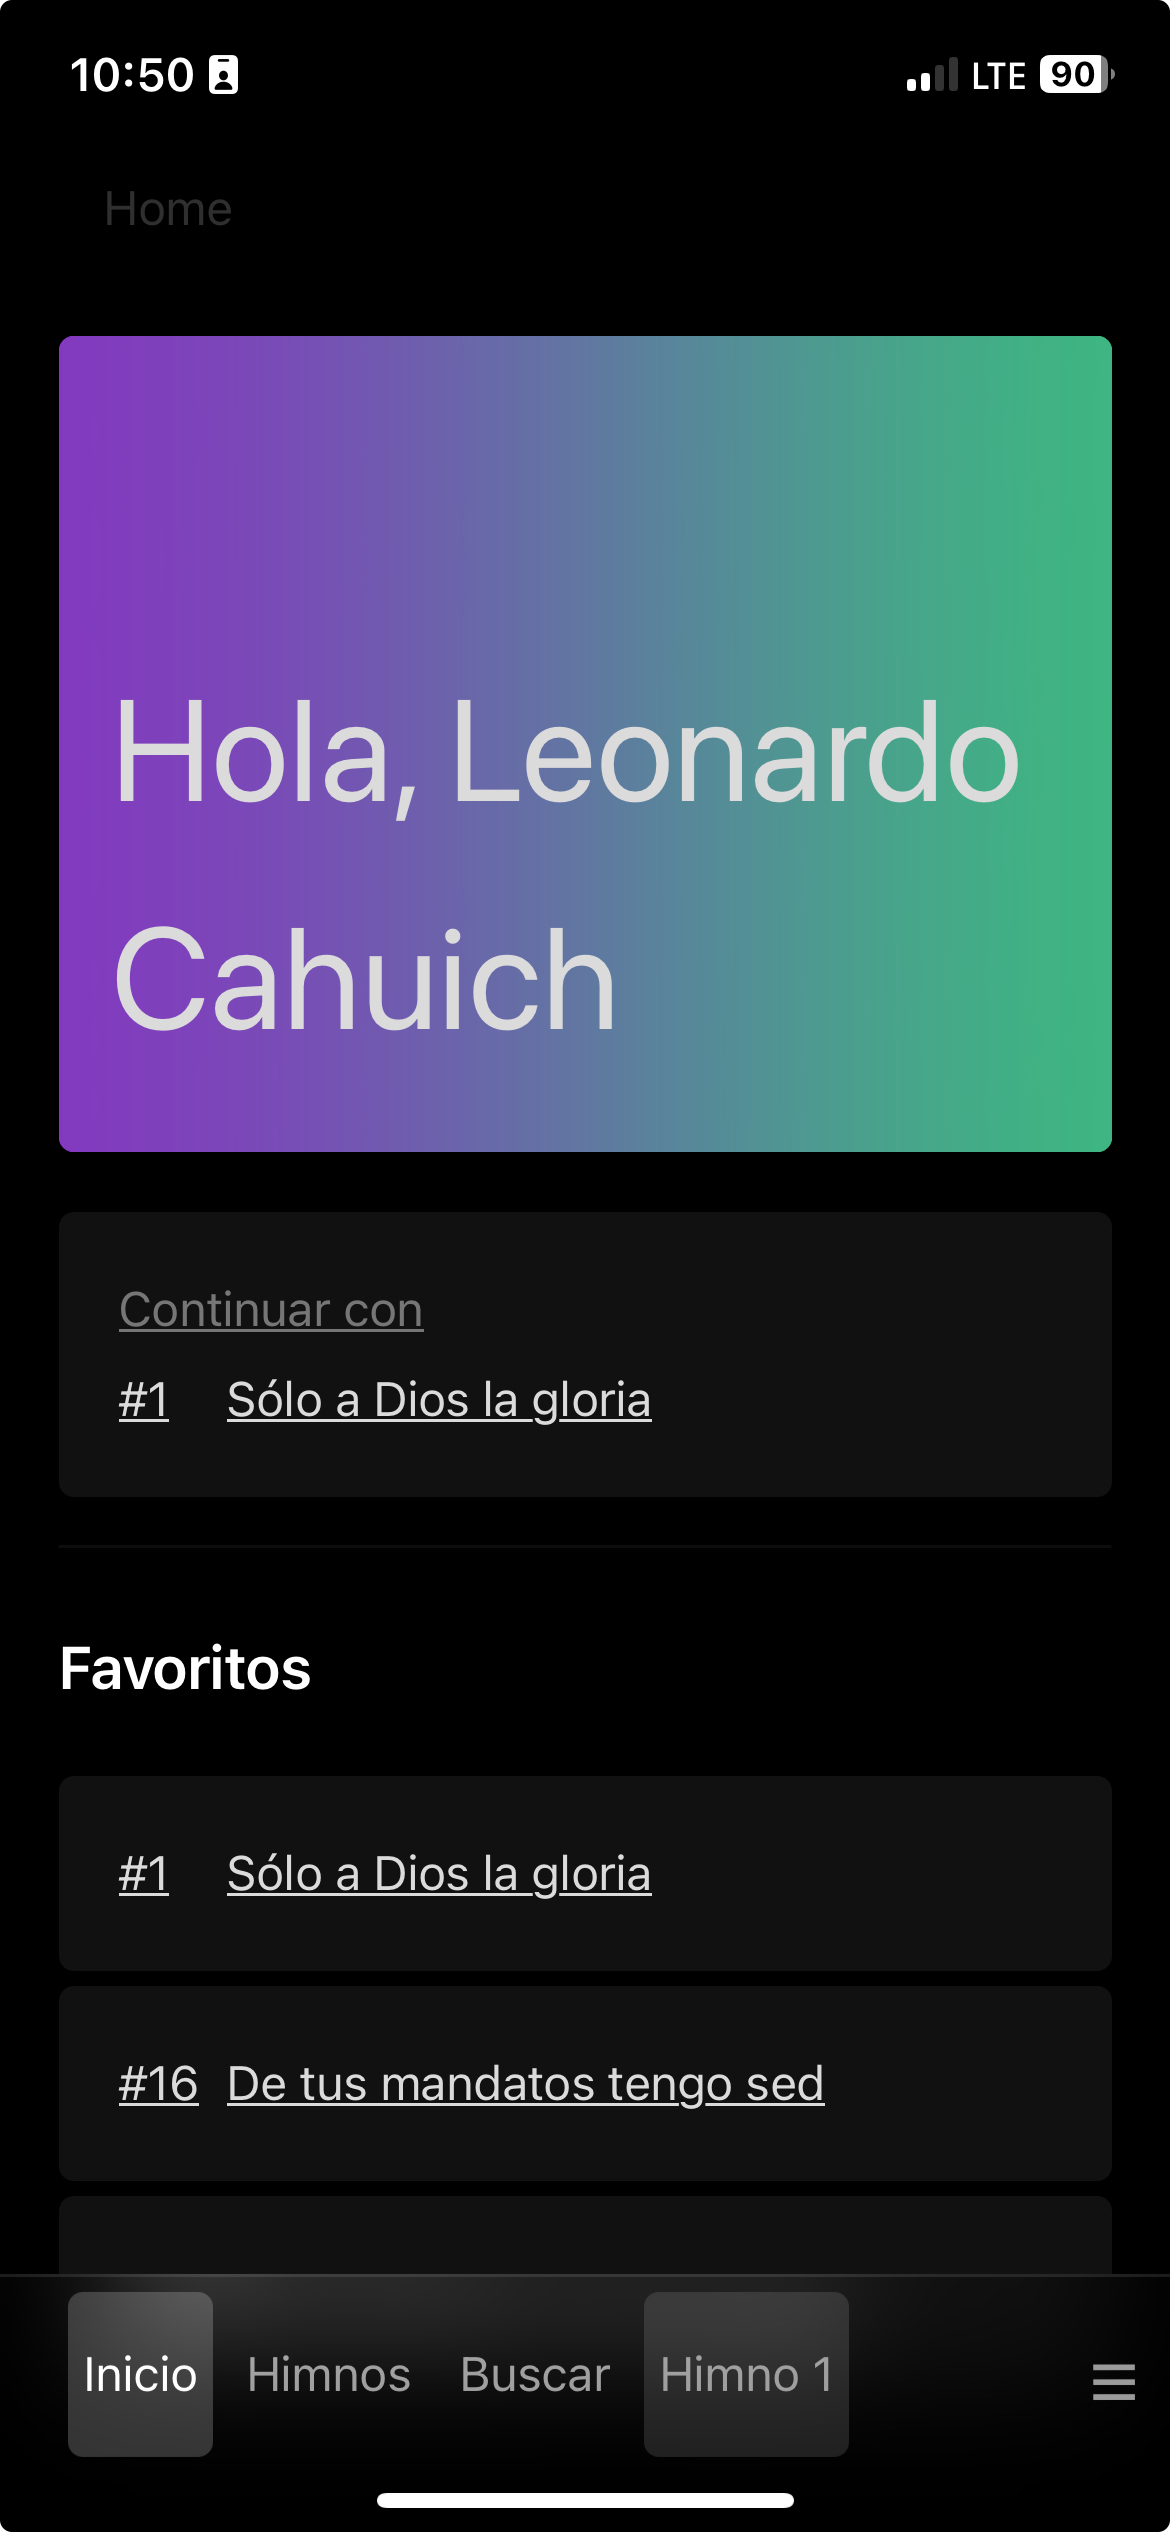
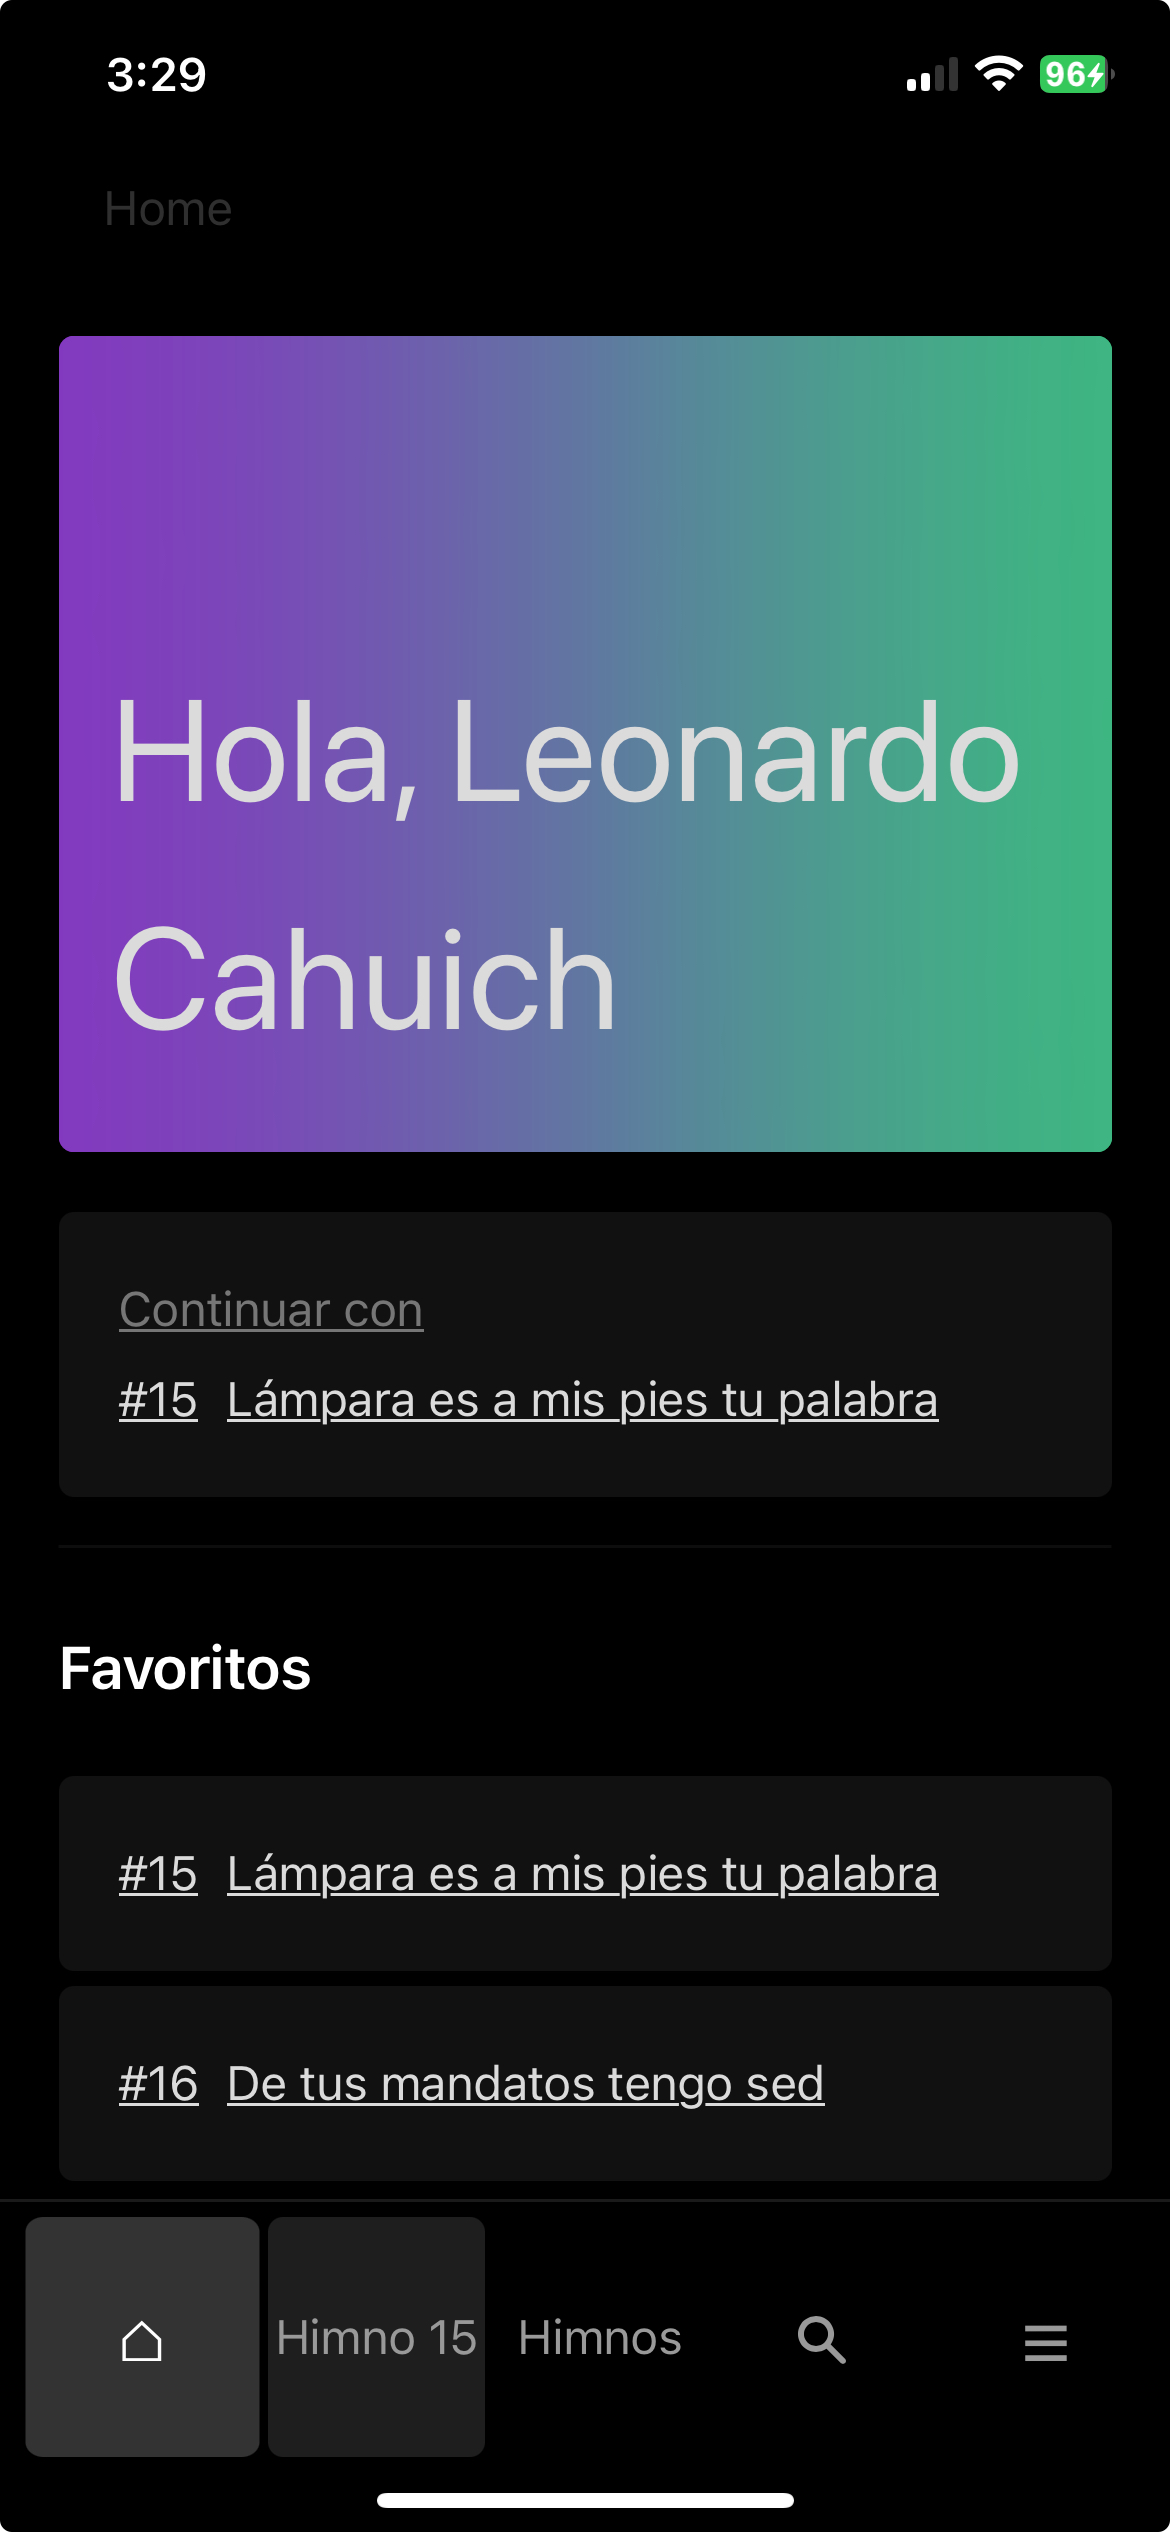
Correciones de funcion de barra de ultimo himno y css.

diff --git a/himnario-presbiteriano/js/app.js b/himnario-presbiteriano/js/app.js
@@ -161,7 +161,7 @@ window.addEventListener('load', function() {
             document.getElementById("mostrar-himno").innerHTML = '';
             document.getElementById("mostrar-himno").innerHTML += `
             <article>
-                <div class="cabecera">
+                <!--<div class="cabecera">
                     <div class="himno-titulo">
                         <div class="numero">
                         Himno #${himnos[numero]['numero']}: 
@@ -174,7 +174,7 @@ window.addEventListener('load', function() {
                     ${himnos[numero]['intro']}
                     </div>
                 </div>
-                    <br>`;
+                    <br>-->`;
                     for(let prop in himnos[numero]['referencias']) {
                         document.getElementById("mostrar-himno").innerHTML += `
                         <div class="referencia">
@@ -267,7 +267,7 @@ window.addEventListener('load', function() {
 
             document.getElementById("btn-nav-3").style.display = "inline-block"
             document.getElementById("btn-nav-3").innerHTML="";
-            document.getElementById("btn-nav-3").innerHTML= "Himno "+localStorage.getItem("data-himnoVisible");
+            document.getElementById("btn-nav-3").innerHTML= "Himno "+localStorage.getItem("data-himnoVisible")+" "+himnosVariable[localStorage.getItem("data-himnoVisible")].titulo;
         } else {
             document.getElementById("btn-nav-3").style.display = "none"
         }
@@ -306,6 +306,20 @@ window.addEventListener('load', function() {
     }
     nombreDePaginasBarra()
 
+    function barraHimnoAbierto() {
+        if(document.getElementById("mostrar-himno").style.display === 'block') {
+            document.getElementById("reciente-nav").classList.add("mh");
+        } else if(document.getElementById("mostrar-himno").style.display === 'none') {
+            document.getElementById("reciente-nav").classList.remove("mh");
+        }
+
+        if(document.body.getAttribute("data-pagepaginatorvisible") === "home" || !document.body.getAttribute("data-pagepaginatorvisible")) {
+            document.getElementById("reciente-nav").style.display = 'none';
+        } else {
+            document.getElementById("reciente-nav").style.display = 'block';
+        }
+    }
+
         function subVisorDeEventos() {
             window.scroll(0,0);
                 visorDeHimnoVistoUltimo();
@@ -320,6 +334,7 @@ window.addEventListener('load', function() {
                 nombreDePaginasBarra()
                 favoritos(1, 2);
                 favoritos(3, 0, himnosVariable);
+                barraHimnoAbierto()
         }
     function visorDeEventos() {
         document.addEventListener('click', () => {
@@ -461,6 +476,8 @@ window.addEventListener('load', function() {
     }
 
     searchhimno(himnosVariable);
+
+    barraHimnoAbierto()
 
     pantallaDeBievenida()
     tamanoFuenteHimnosCambiar("fuente-himnos-tamaño");

diff --git a/himnario-presbiteriano/css/style.css b/himnario-presbiteriano/css/style.css
@@ -187,7 +187,7 @@ body {
     transition: .2s all ease-in-out !important;
   }
   .scroll-down .nav-scroll {
-    transform: translateY(100px);
+    transform: translateY(120px);
     transition: .2s all ease-in-out !important;
   }
   .scroll-up .nav-scroll {
@@ -203,7 +203,7 @@ body {
 
  #nav-pag ul {
   display: grid;
-  grid-template-columns: repeat(5, 1fr);
+  grid-template-columns: repeat(4, 1fr);
   gap: 2px;
   align-content: center;
 
@@ -279,6 +279,39 @@ body {
   background-color: rgba(255, 255, 255, 0.2);
   border-radius: 5px;
  }
+
+
+#reciente-nav {
+  width: 90%;
+  height: 60px;
+  background-color: rgba(255, 255, 255, 0.05);
+  backdrop-filter: blur(40px);
+  -webkit-backdrop-filter: blur(40px);
+
+  margin: 0 auto;
+
+  border-radius: 5px;
+
+  font-size: 2dvh;
+
+  z-index: 999;
+  align-content: center;
+}
+
+#reciente-nav.mh {
+  background-color: transparent !important;
+  font-size: 3dvh !important;
+  text-align: center;
+}
+#reciente-nav ul {}
+#reciente-nav ul li {
+  display: inline-flex;
+  }
+#reciente-nav ul li a {
+  height: 100%;
+  display: inline-flex;
+  text-decoration: none;
+}
 
  /* ==========================================================================
    Home

diff --git a/himnario-presbiteriano/index.html b/himnario-presbiteriano/index.html
@@ -33,7 +33,7 @@
       nameMarquet: 'Himnario <b>Prebisteriano</b>',
       author: 'Leonardo Cahuich',
       dev: 'Leonardo Cahuich',
-      version: '0.0.1.3.2',
+      version: '0.0.1.3.3',
     }
   </script>
 </head>
@@ -57,11 +57,19 @@
       <ul id="barra-de-pagina">
       </ul>
     </header>
+    <nav id="reciente-nav">
+      <ul id="left">
+        <li><a class="btn-nav"  id="btn-nav-3" name="mostrar-himno"></a></li>
+      </ul>
+      <ul id="right">
+
+      </ul>
+    </nav>
     <nav id="nav-pag">
       <ul class="left">
         <li class="icono icono-home  pag-actual"><a class="btn-nav" id="btn-nav-1" name="home">⌂</a></li>
         <!--<li class="icono-home  pag-actual"><a class="btn-nav" id="btn-nav-1" name="home">Inicio</a></li>-->
-        <li><a class="btn-nav"  id="btn-nav-3" name="mostrar-himno"></a></li>
+        <!--<li><a class="btn-nav"  id="btn-nav-3" name="mostrar-himno"></a></li>-->
         <li><a class="btn-nav" id="btn-nav-2" name="pag-himnos">Himnos</a></li>
         <li><a class="btn-nav"  id="btn-nav-buscar" name="buscar">
           <svg height="20px" width="20px" xmlns="http://www.w3.org/2000/svg" class="input-icon" viewBox="0 0 20 20" fill="currentColor">
